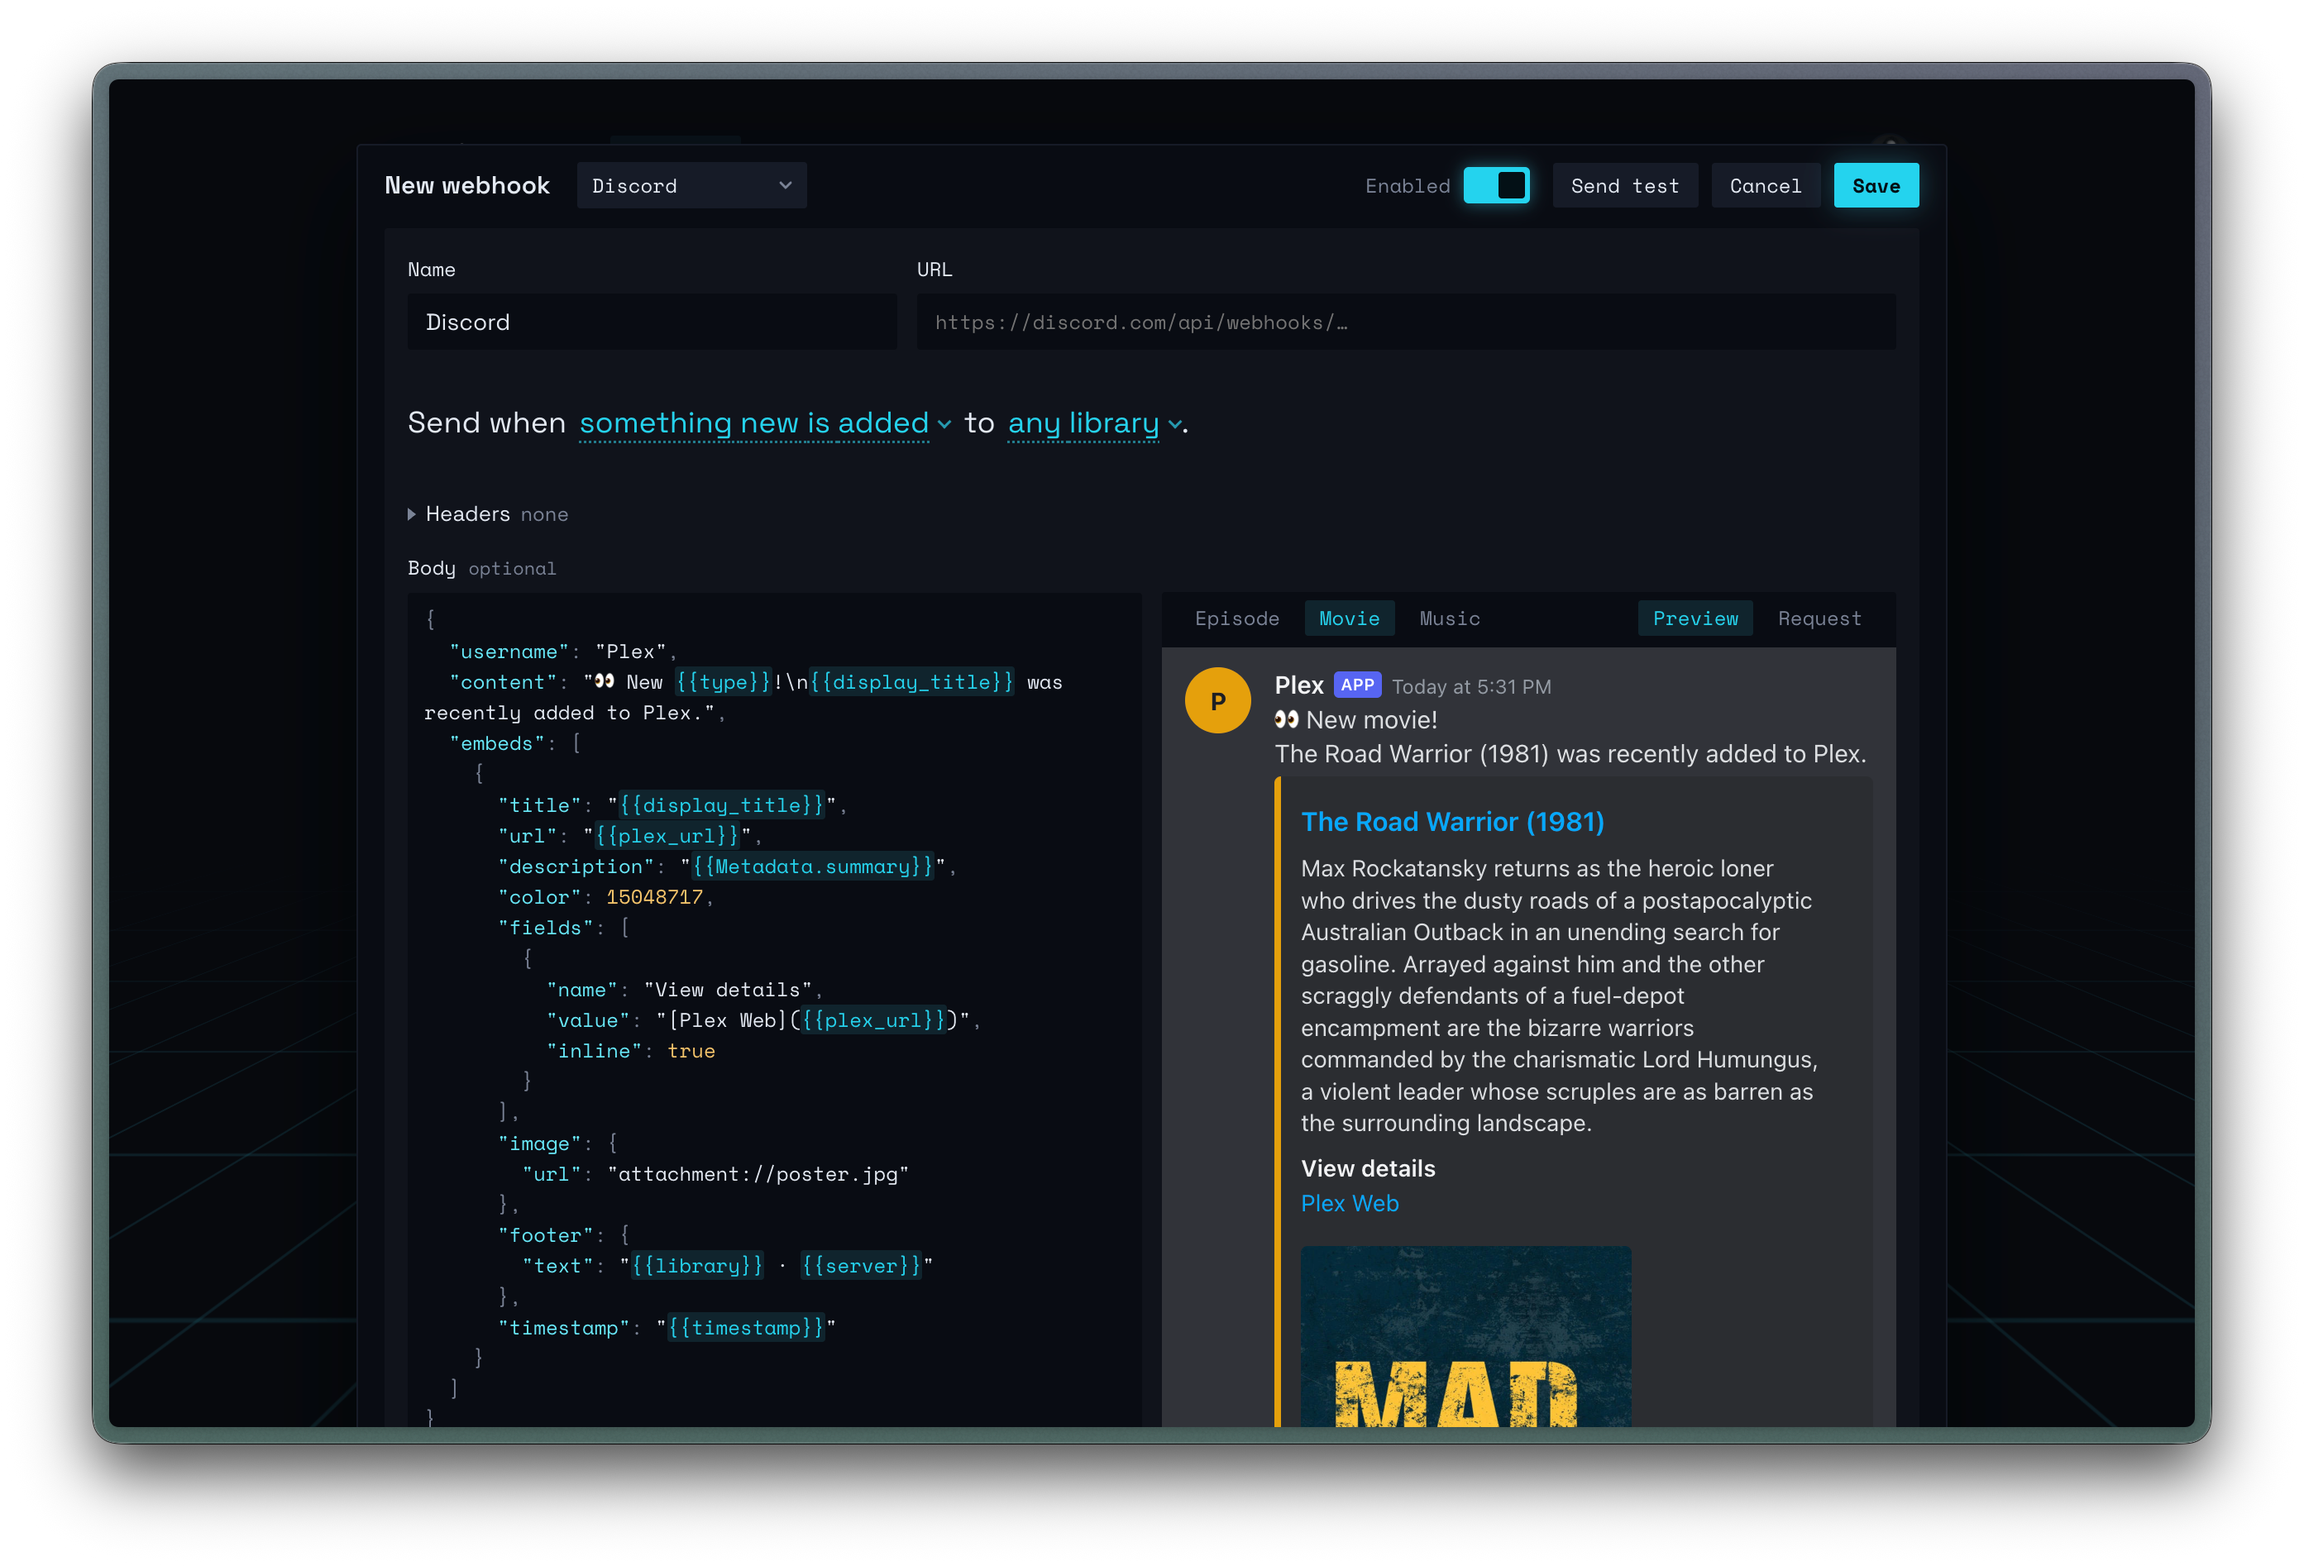
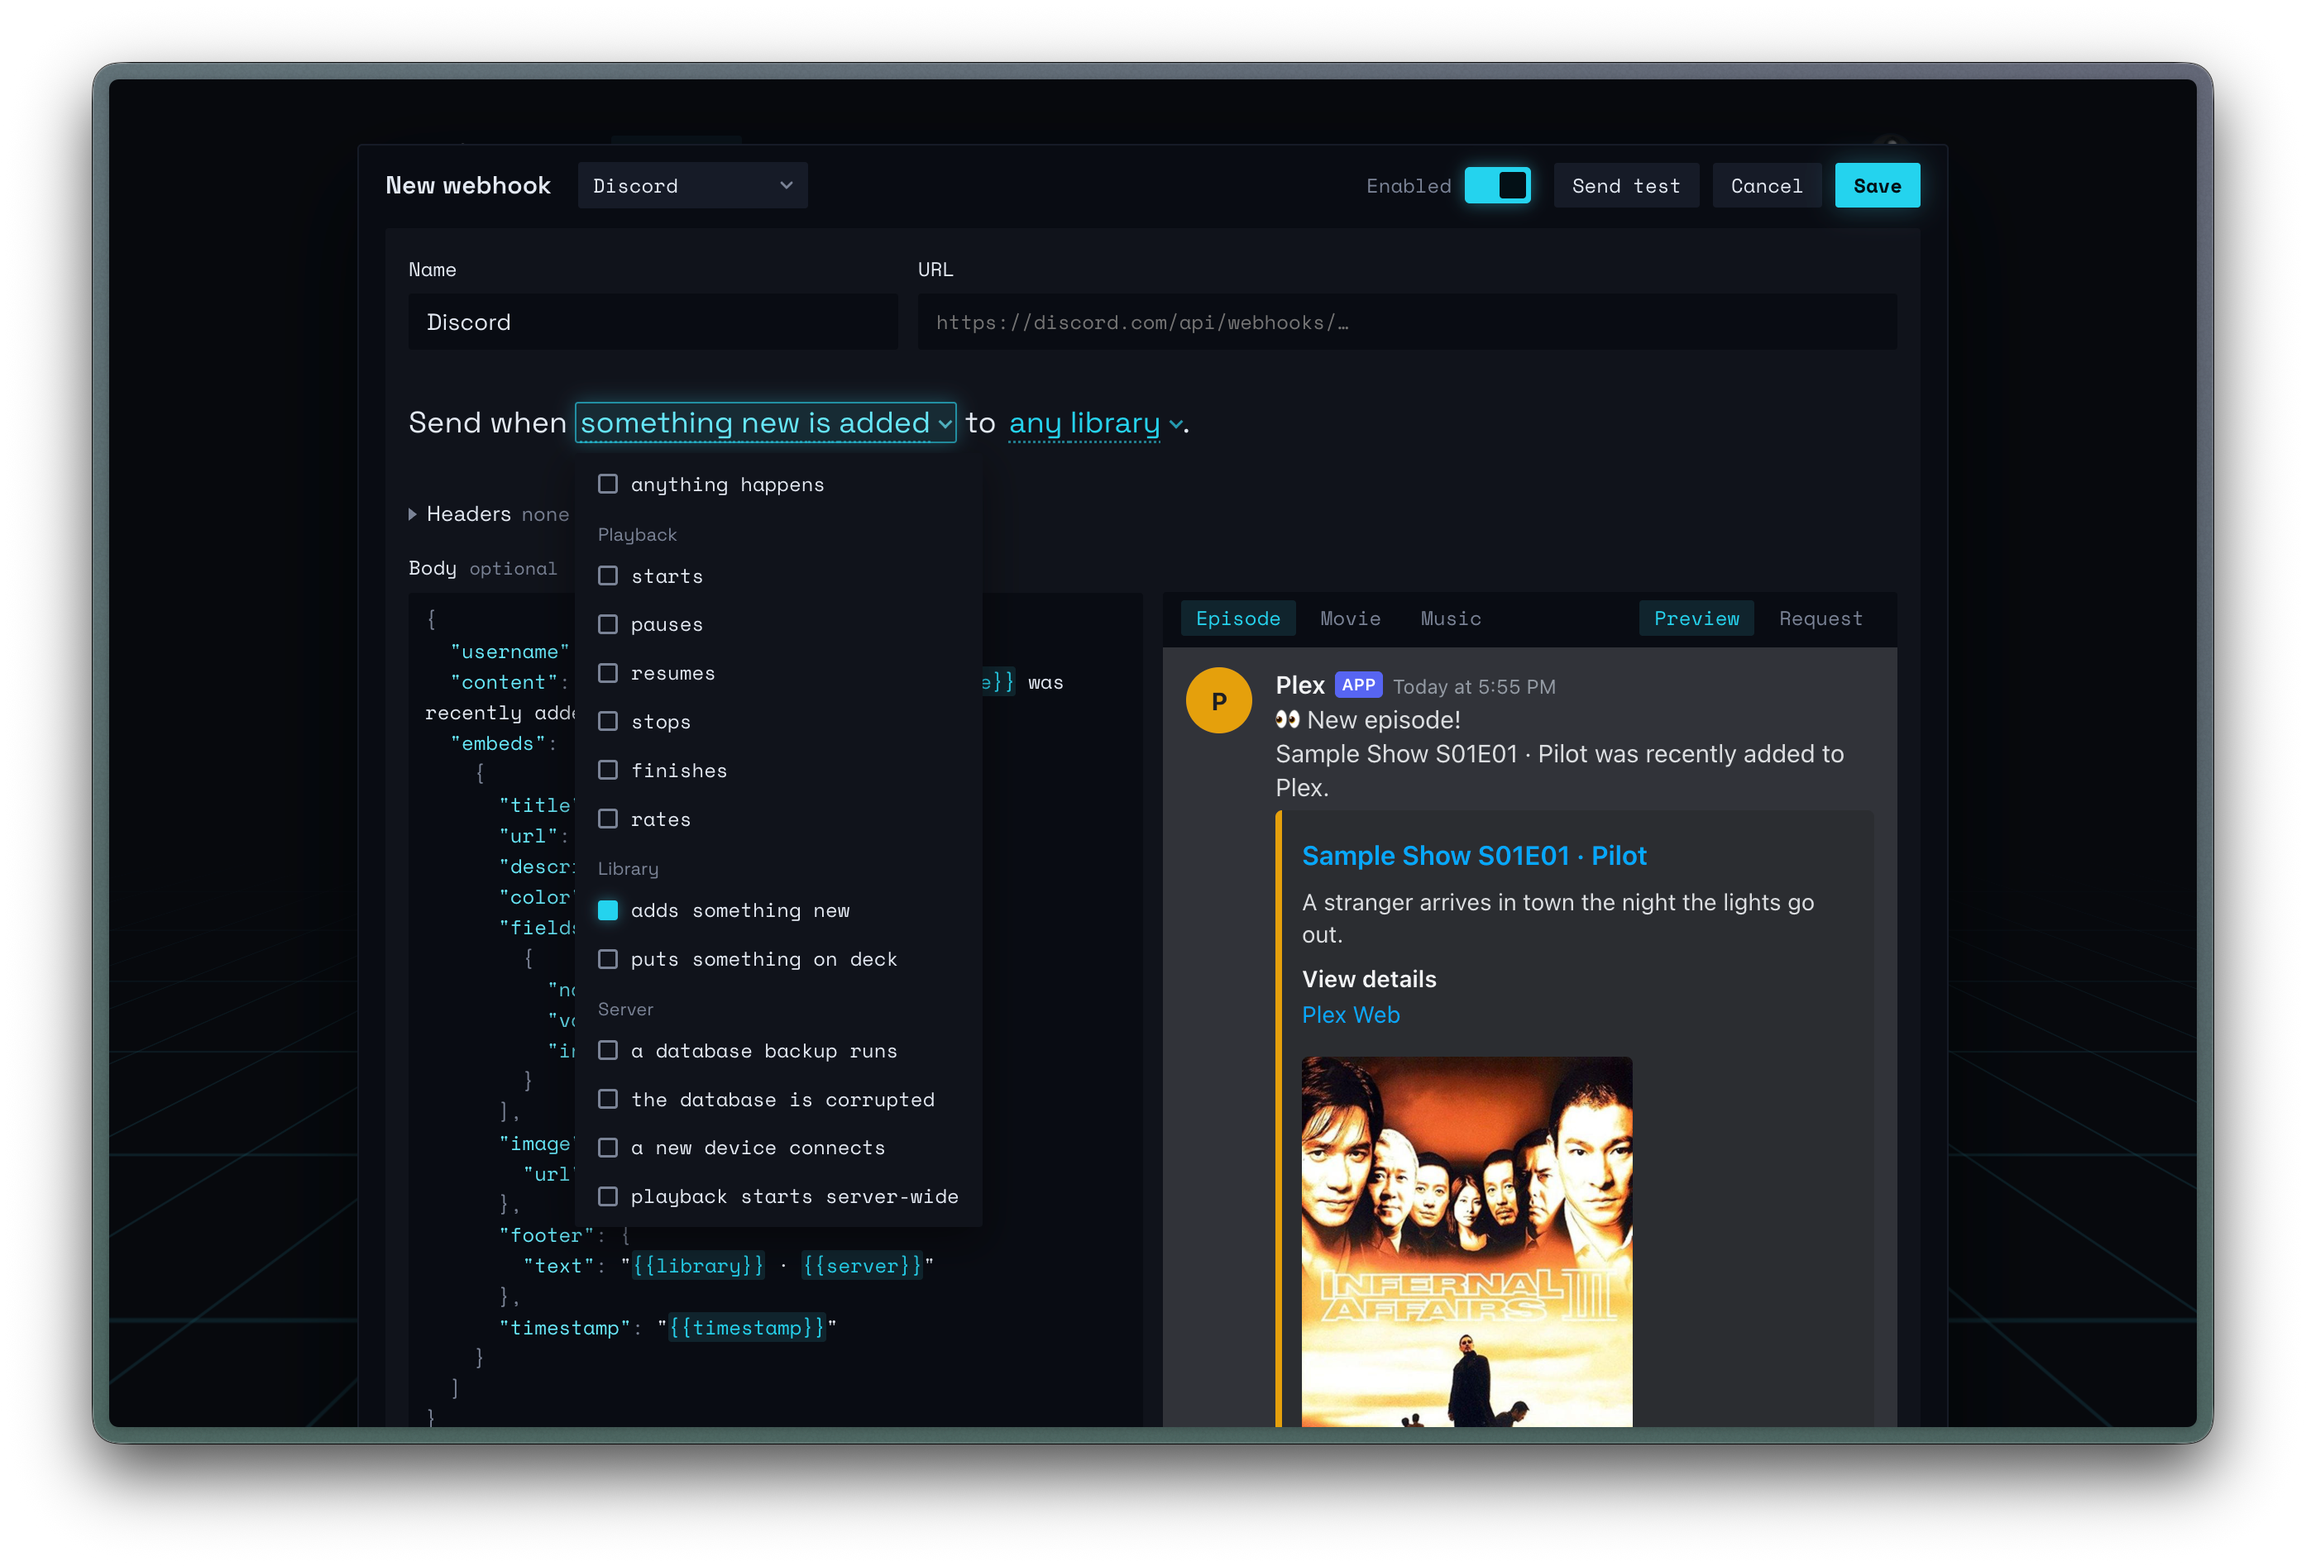
README: new editor screenshot

diff --git a/README.md b/README.md
@@ -7,7 +7,7 @@ Forward Plex Media Server webhooks to other webhooks.
 - See the last 100 events sent from Plex and whether they were delivered or not
 - See the latest deliveries to each hook and their full request and payload 
 
-![The webhook editor: a Discord template with a live preview of a new movie](docs/editor.png)
+![The webhook editor: picking which Plex events send, with a live Discord preview of a new episode](docs/editor.png)
 
 ## Requirements
 
